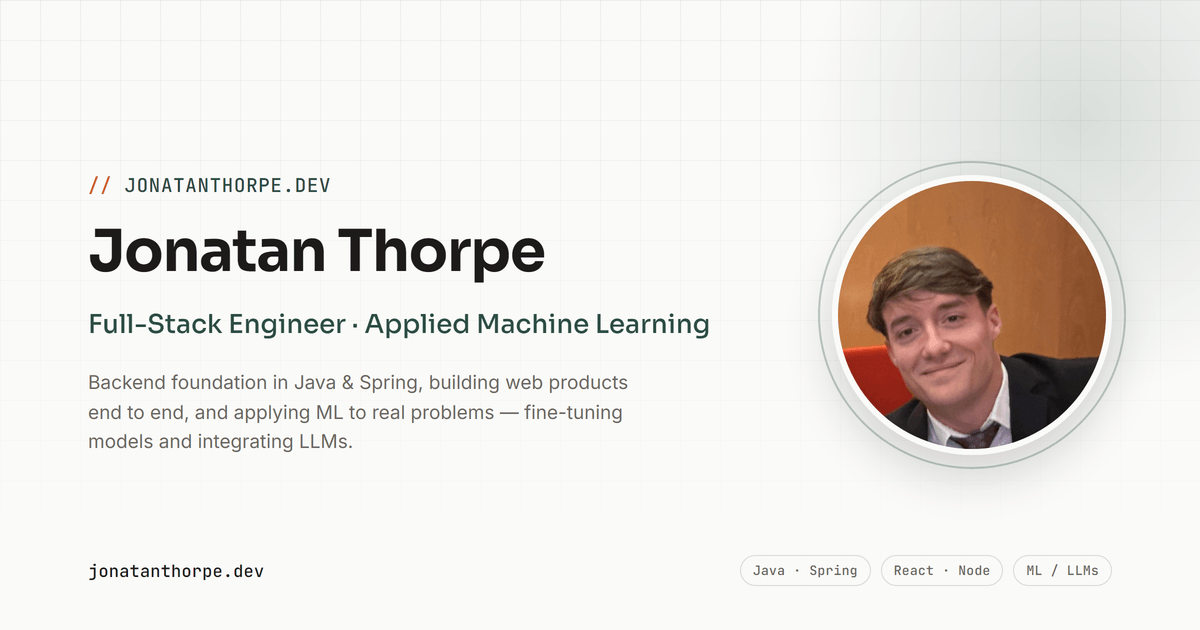
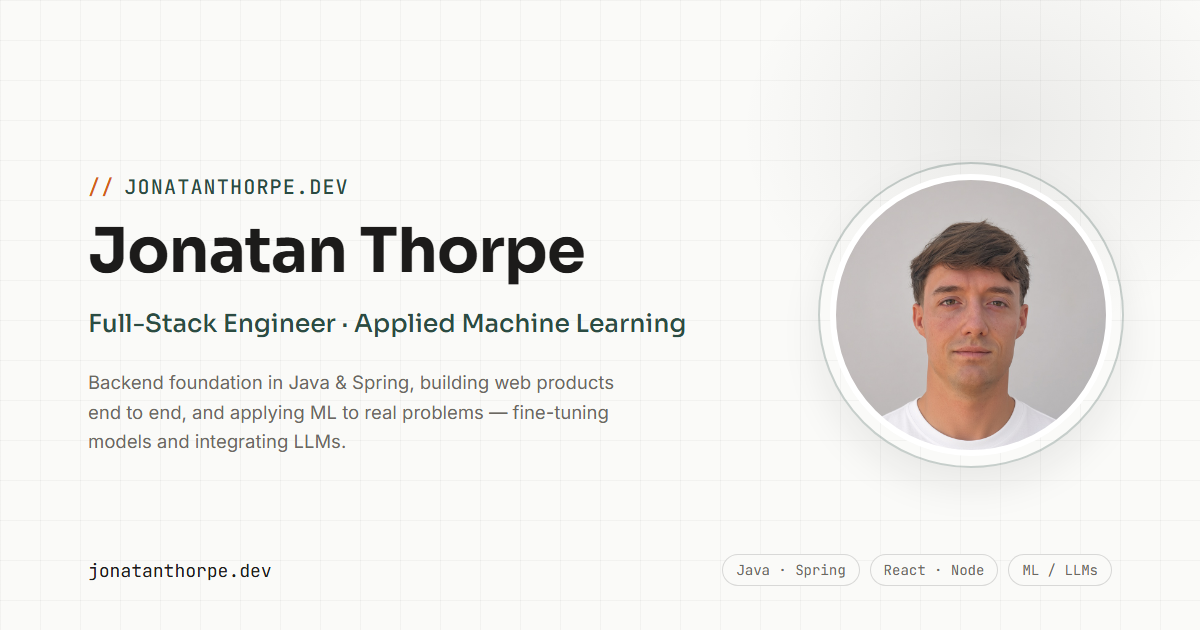
feat(site): refresh social preview image with new profile photo

diff --git a/site/index.html b/site/index.html
@@ -22,7 +22,7 @@
       content="Full-stack engineer with a backend foundation, building web products end to end and applying ML to real problems — fine-tuning language & vision models and integrating LLMs. Open to remote / international roles."
     />
     <meta property="og:url" content="https://jonatanthorpe.dev/" />
-    <meta property="og:image" content="https://jonatanthorpe.dev/og-image.png" />
+    <meta property="og:image" content="https://jonatanthorpe.dev/og-image.png?v=2" />
     <meta property="og:locale" content="en" />
     <meta property="og:locale:alternate" content="es" />
 
@@ -33,7 +33,7 @@
       name="twitter:description"
       content="Full-stack engineer applying ML to real business problems — fine-tuning language & vision models and integrating LLMs, on a backend foundation."
     />
-    <meta name="twitter:image" content="https://jonatanthorpe.dev/og-image.png" />
+    <meta name="twitter:image" content="https://jonatanthorpe.dev/og-image.png?v=2" />
 
     <!-- JSON-LD: schema.org Person -->
     <script type="application/ld+json">
